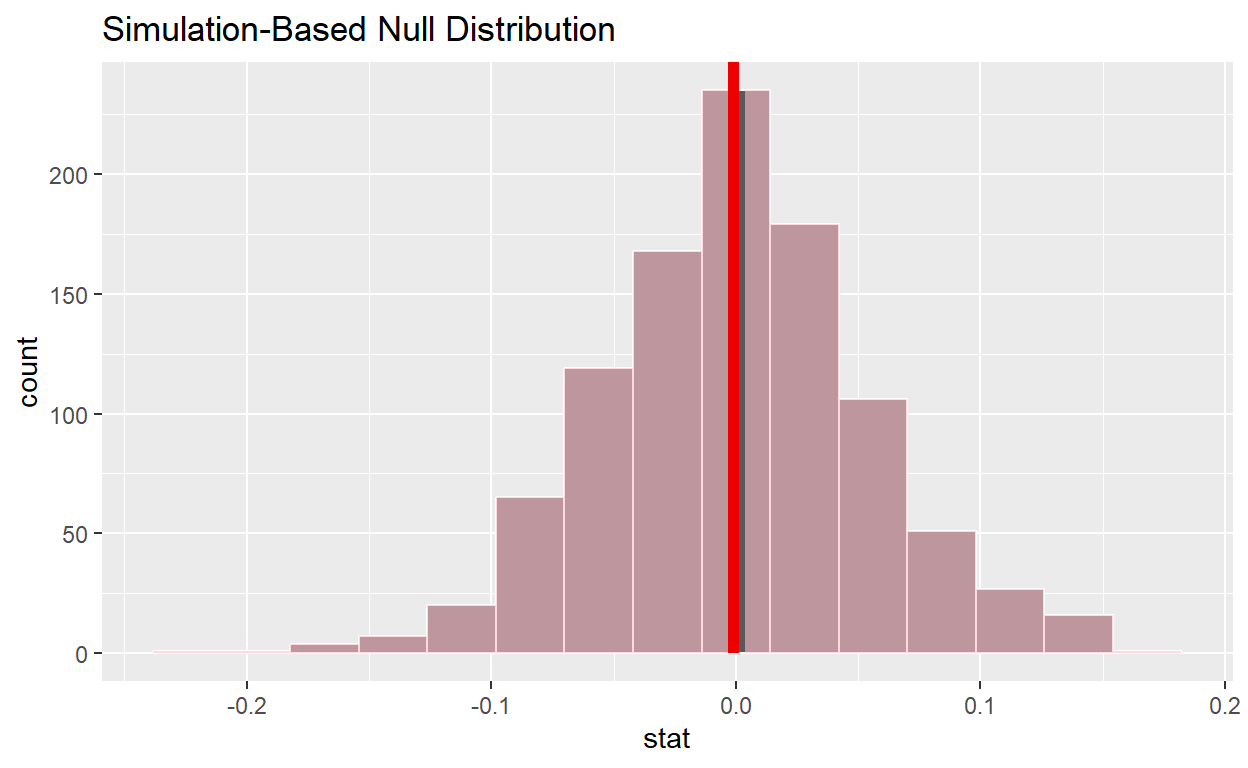
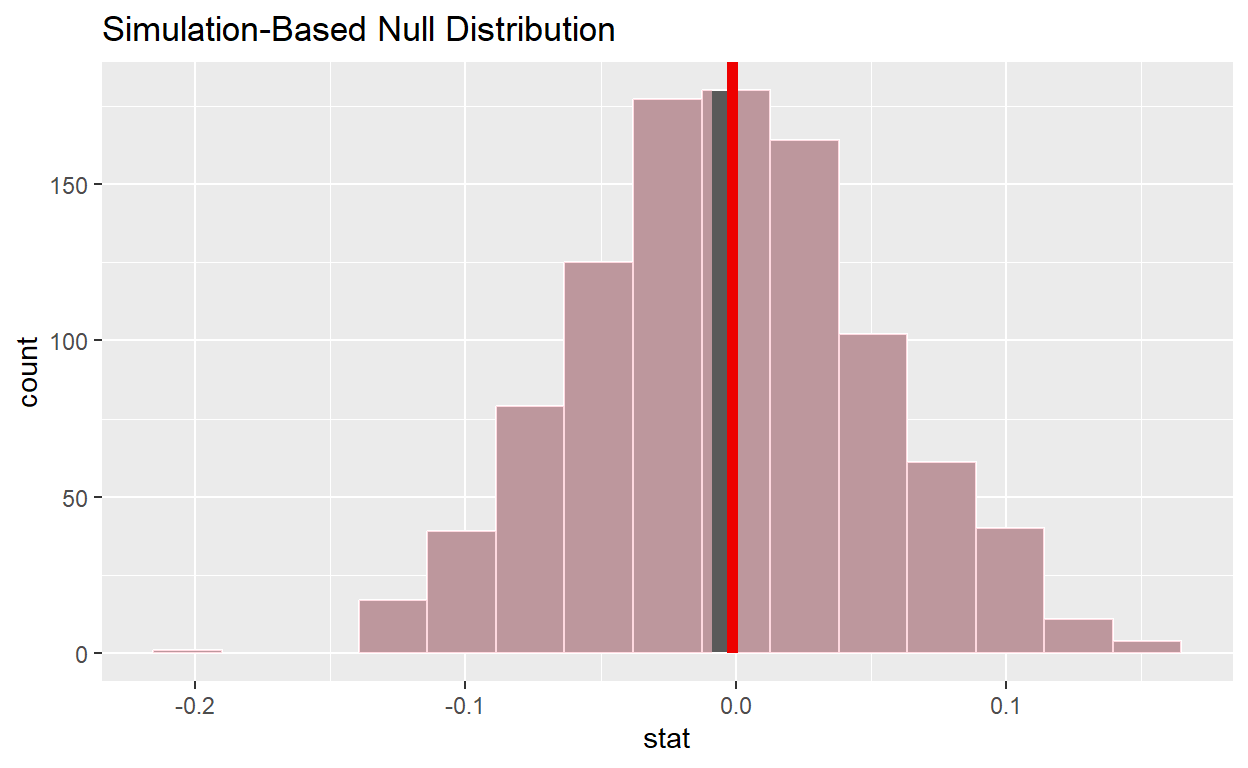
finish

diff --git a/index.html b/index.html
@@ -1585,16 +1585,16 @@ Null Hypothesis: independence
 # A tibble: 1,000 × 2
    replicate     stat
        &lt;int&gt;    &lt;dbl&gt;
- 1         1 -0.00875
- 2         2 -0.0738 
- 3         3  0.134  
- 4         4  0.0288 
- 5         5  0.0688 
- 6         6  0.0263 
- 7         7 -0.0113 
- 8         8 -0.0688 
- 9         9  0.00875
-10        10 -0.0213 
+ 1         1 -0.0263 
+ 2         2  0.0488 
+ 3         3  0.0138 
+ 4         4  0.0163 
+ 5         5  0.0113 
+ 6         6 -0.0188 
+ 7         7 -0.0238 
+ 8         8 -0.00875
+ 9         9  0.0813 
+10        10  0.0513 
 # … with 990 more rows</code></pre>
 <div class="sourceCode">
 <pre class="sourceCode r"><code class="sourceCode r"><span><span class='va'>base_p</span><span class='op'>&lt;-</span><span class='va'>null_diff</span><span class='op'>|&gt;</span></span>
@@ -1604,7 +1604,7 @@ Null Hypothesis: independence
 <pre><code># A tibble: 1 × 1
   p_value
     &lt;dbl&gt;
-1   0.976</code></pre>
+1   0.982</code></pre>
 </div>
 <p>Since the p value is far higher than 0.05 (in fact close to 1), we can retain the null hypothesis. That is, Best Hand does not have a say at all on the house that students were assigned.</p>
 <div class="layout-chunk" data-layout="l-body">
@@ -1896,7 +1896,7 @@ R2 Adj.
 </div>
 <p>Holding other variables constant, a one unit change in the independent variable Herbology would result in a change of negative 0.145 in the House_code (negative correlation), a one unit change in Divination would result in a change of negative 0.014 in the House_code (negative correlation), a one unit change in Defense Against the Dark Arts would result in a change of 0.1 in the House_code (positive correlation), and a one unit change in Charms would result in a change of negative 0.015 in the House_code (negative correlation).An estimated coefficient is statistically significant when its p value is less than alpha. Therefore, at the 0.05 level, Herbology, Defense against the Dark Arts, and Charms are all statistically significant, but Divination is not.</p>
 <h2 id="conclusion">Conclusion</h2>
-<p>According to the discussion above, the birth month of a student and his or her best hand have barely nothing to do with the Sorting Hat’s decision. As for performance in each of the main courses, a student’s performance in Herbology and Divination are both negatively correlated with the overall “excellency” of the house he or she is assigned to, and a student’s performance in Defense Against the Dark Arts is positively correlated with the overall “excellency” of the house he or she is assigned to. This makes sense in that Defense Against the Dark Arts is assumed to be the most important skill in a world where Dark Art threatens the lives of almost everyone. An excellent wizard should be well equipped with knowledge in this field. Herbology and Divination, however, may make students a good scholar in academia, but not necessarily an excellent wizard. This study, however, only looks at the birth month, best hand, and performance in main courses. There might be many other variables that affect the Sorting Hat’s decision. Further study is therefore needed to take a step forward.</p>
+<p>According to the discussion above, the birth month of a student and his or her best hand have barely nothing to do with the Sorting Hat’s decision. As for performance in each of the main courses, a student’s performance in Herbology and Divination are both negatively correlated with the overall “excellency” of the house he or she is assigned to, and a student’s performance in Defense Against the Dark Arts is positively correlated with the overall “excellency” of the house he or she is assigned to. And these are statistically significant. This makes sense in that Defense Against the Dark Arts is assumed to be the most important skill in a world where Dark Art threatens the lives of almost everyone. An excellent wizard should be well equipped with knowledge in this field. Herbology and Divination, however, may make students a good scholar in academia, but not necessarily an excellent wizard. This study, however, only looks at the birth month, best hand, and performance in main courses. There might be many other variables that affect the Sorting Hat’s decision, for example, the students’ family background. Further study is therefore needed to take a step forward.</p>
 <div class="sourceCode" id="cb6"><pre class="sourceCode r distill-force-highlighting-css"><code class="sourceCode r"></code></pre></div>
 <!--radix_placeholder_article_footer-->
 <!--/radix_placeholder_article_footer-->
